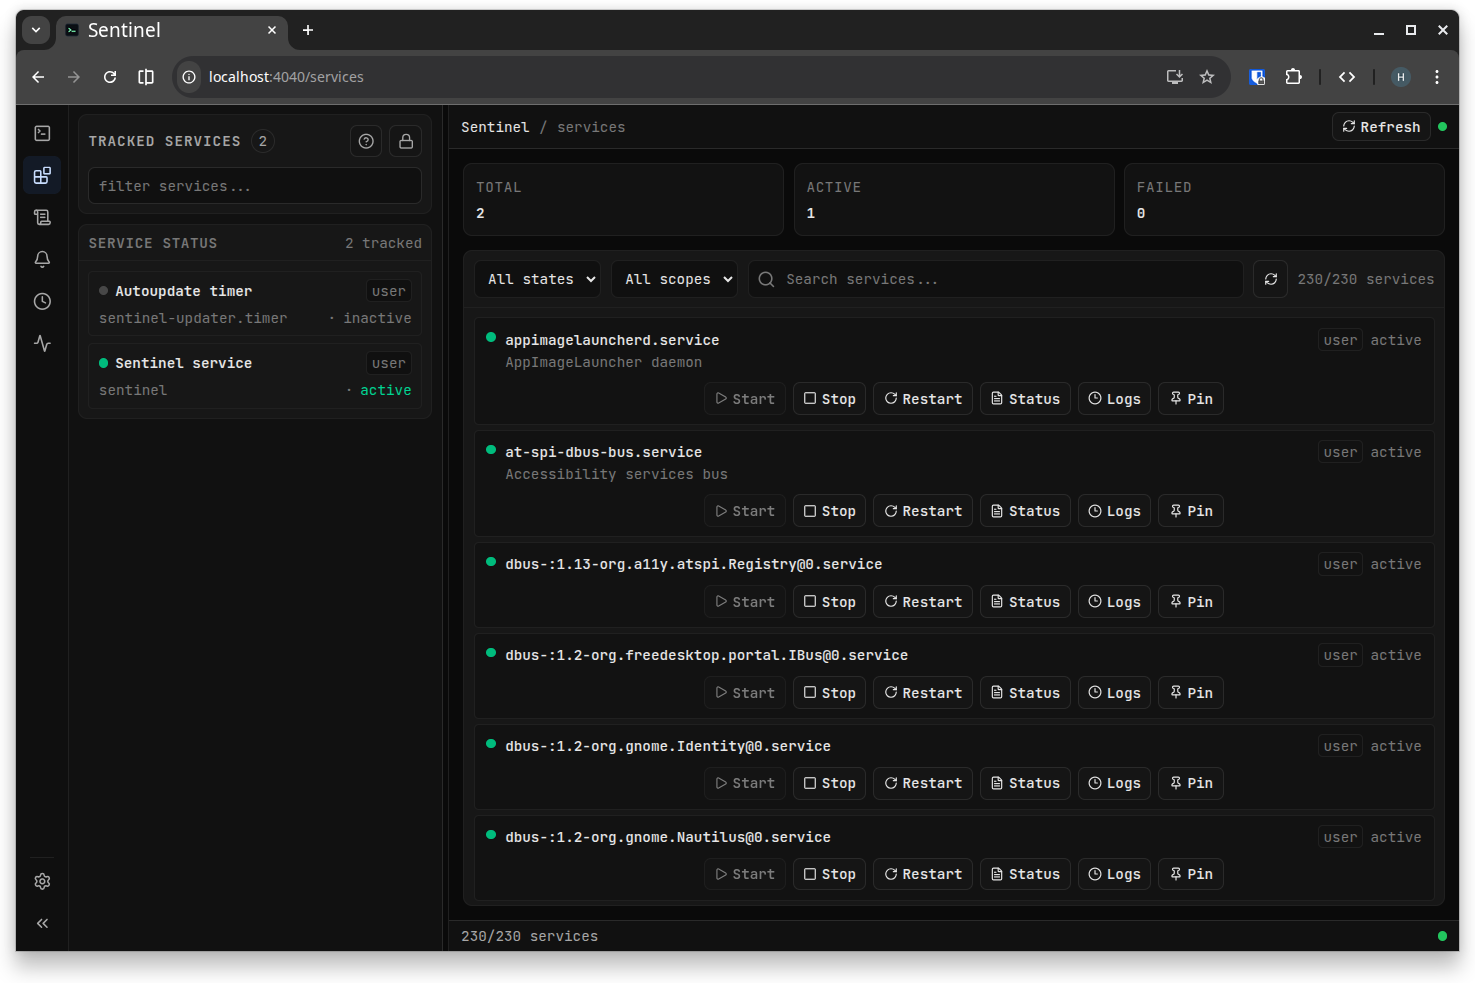
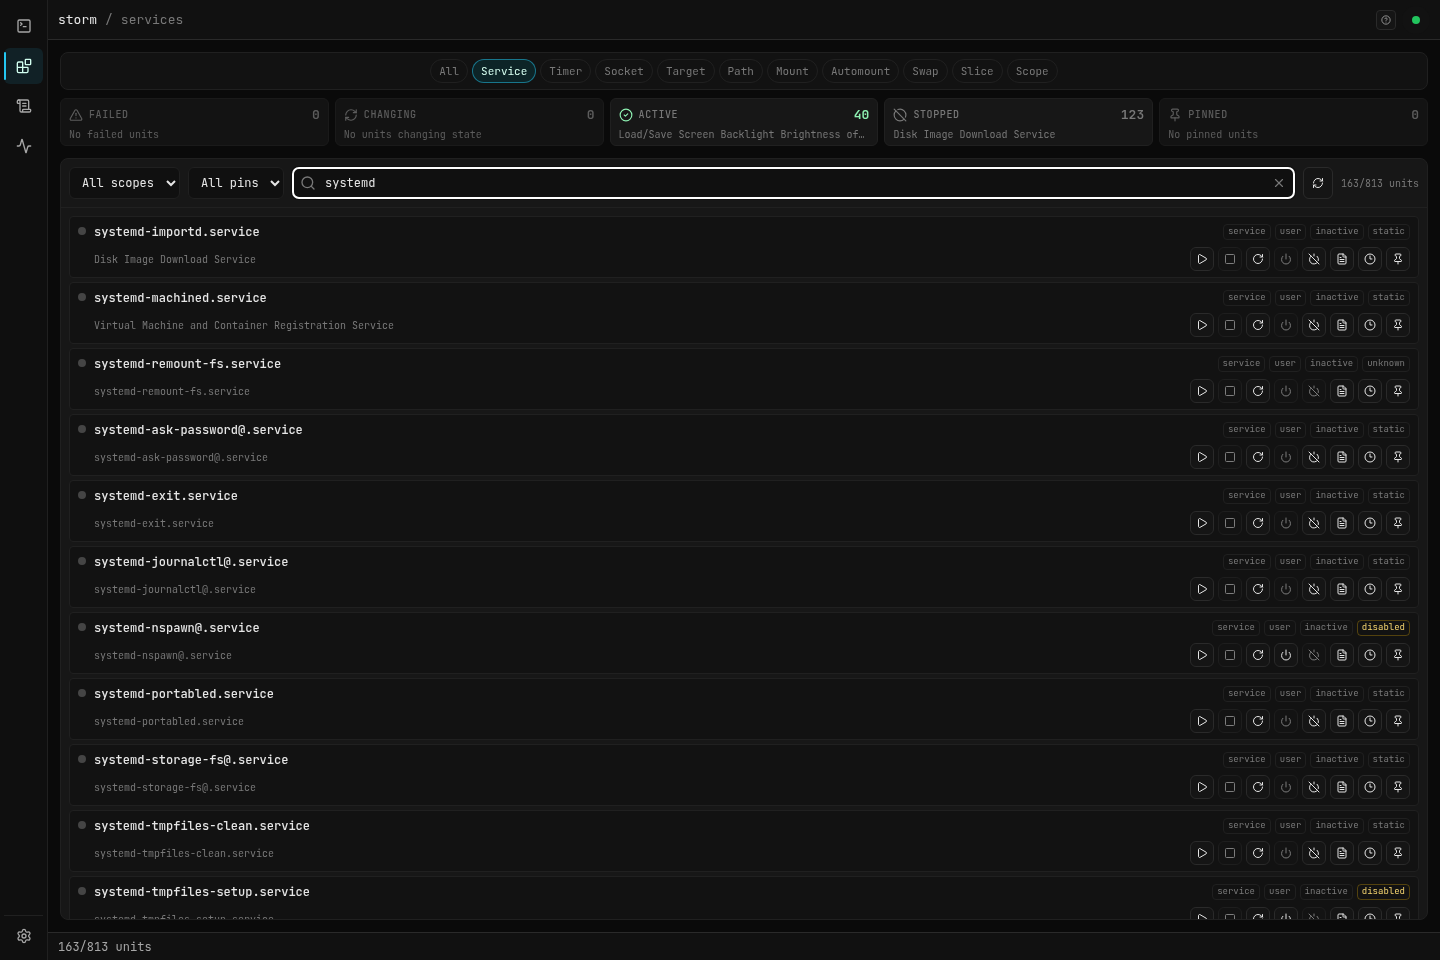
refactor(ui): remove redundant services sidebar

diff --git a/frontend/src/routes/services.tsx b/frontend/src/routes/services.tsx
@@ -10,7 +10,7 @@ import {
 } from 'react'
 import { useQuery, useQueryClient } from '@tanstack/react-query'
 import { createFileRoute } from '@tanstack/react-router'
-import { Menu, RefreshCw, Search, X } from 'lucide-react'
+import { RefreshCw, Search, X } from 'lucide-react'
 import type {
   OpsBrowseServicesResponse,
   OpsBrowsedService,
@@ -26,16 +26,15 @@ import type {
 import AppSectionTitle from '@/components/layout/AppSectionTitle'
 import AppShell from '@/components/layout/AppShell'
 import ConnectionBadge from '@/components/ConnectionBadge'
+import ServicesHelpDialog from '@/components/ServicesHelpDialog'
 import { ServiceBrowseRow } from '@/components/services/ServiceBrowseRow'
 import { ServiceLogsSheet } from '@/components/services/ServiceLogsSheet'
 import { ServicesOperationsSummary } from '@/components/services/ServicesOperationsSummary'
 import { ServiceStatusDialog } from '@/components/services/ServiceStatusDialog'
-import ServicesSidebar from '@/components/ServicesSidebar'
 import { Button } from '@/components/ui/button'
 import { EmptyState } from '@/components/ui/empty-state'
 import { ScrollArea } from '@/components/ui/scroll-area'
 import { TooltipHelper } from '@/components/TooltipHelper'
-import { useLayoutContext } from '@/contexts/LayoutContext'
 import { useMetaContext } from '@/contexts/MetaContext'
 import { useToastContext } from '@/contexts/ToastContext'
 import { useTokenContext } from '@/contexts/TokenContext'
@@ -292,9 +291,8 @@ ServicesBrowseControls.displayName = 'ServicesBrowseControls'
 
 function ServicesPage() {
   const { tokenRequired, hostname } = useMetaContext()
-  const { authenticated, setToken } = useTokenContext()
+  const { authenticated } = useTokenContext()
   const { pushToast } = useToastContext()
-  const layout = useLayoutContext()
   const api = useTmuxApi()
   const queryClient = useQueryClient()
 
@@ -356,11 +354,6 @@ function ServicesPage() {
     effectiveSvcTypeFilter.length === browseUnitTypes.length &&
     browseUnitTypes.every((type) => effectiveSvcTypeFilter.includes(type))
 
-  const servicesLoading = servicesQuery.isLoading
-  const servicesError =
-    servicesQuery.error != null
-      ? toErrorMessage(servicesQuery.error, 'failed to load services')
-      : ''
   const overviewError =
     overviewQuery.error != null
       ? toErrorMessage(overviewQuery.error, 'failed to load overview')
@@ -694,27 +687,6 @@ function ServicesPage() {
     [toggleTrack],
   )
 
-  const navigateToService = useCallback(
-    (unit: string) => {
-      setSvcStateFilter('all')
-      setSvcScopeFilter('all')
-      const matchingTypes = listOpsBrowseUnitTypes(
-        browseServices.filter((service) => service.unit === unit),
-      )
-      if (matchingTypes.length > 0) {
-        setSvcTypeFilterTouched(true)
-        setSvcTypeFilter(matchingTypes)
-      } else {
-        setSvcTypeFilter([])
-        setSvcTypeFilterTouched(false)
-      }
-      setSvcTrackFilter('all')
-      setSvcSearch(unit)
-      layout.setSidebarOpen(false)
-    },
-    [browseServices, layout],
-  )
-
   const toggleStateFilter = useCallback((filter: OpsServiceStateFilter) => {
     setSvcStateFilter((prev) => (prev === filter ? 'all' : filter))
   }, [])
@@ -753,37 +725,14 @@ function ServicesPage() {
   }, [])
 
   return (
-    <AppShell
-      sidebar={
-        <ServicesSidebar
-          isOpen={layout.sidebarOpen}
-          collapsed={layout.sidebarCollapsed}
-          tokenRequired={tokenRequired}
-          authenticated={authenticated}
-          loading={servicesLoading}
-          error={servicesError}
-          services={services}
-          onTokenChange={setToken}
-          onRemoveService={unregisterService}
-          onNavigateToService={navigateToService}
-        />
-      }
-    >
+    <AppShell>
       <main className="grid h-full min-h-0 min-w-0 grid-cols-1 grid-rows-[40px_1fr_28px] bg-[radial-gradient(circle_at_20%_-10%,var(--section-glow-brand),transparent_34%),var(--background)]">
         <header className="flex min-w-0 items-center justify-between gap-2 border-b border-border bg-card px-2.5">
           <div className="flex min-w-0 items-center gap-2">
-            <Button
-              variant="ghost"
-              size="icon"
-              className="cursor-pointer md:hidden"
-              onClick={() => layout.setSidebarOpen((prev) => !prev)}
-              aria-label="Open menu"
-            >
-              <Menu className="h-5 w-5" />
-            </Button>
             <AppSectionTitle hostname={hostname} section="services" />
           </div>
           <div className="flex items-center gap-1.5">
+            <ServicesHelpDialog />
             <ConnectionBadge state={connectionState} onClick={resyncPage} />
           </div>
         </header>

diff --git a/frontend/src/components/ServicesHelpDialog.tsx b/frontend/src/components/ServicesHelpDialog.tsx
@@ -36,8 +36,8 @@ export default function ServicesHelpDialog() {
             <section>
               <h3 className="mb-1 font-medium text-foreground">Tracked Services</h3>
               <p>
-                Services pinned from the Browse panel appear in the sidebar for quick status
-                monitoring. Their active state is polled automatically.
+                Services pinned from the Browse panel can be isolated with the Pinned filter. Their
+                active state is polled automatically.
               </p>
             </section>
             <section>
@@ -46,7 +46,7 @@ export default function ServicesHelpDialog() {
                 The Browse panel discovers systemd (Linux) or launchd (macOS) units available on the
                 host. The default view stays focused on service units, and the type filter lets you
                 expand into timers, targets, sockets, and other unit kinds when needed. Pin any unit
-                to track it in the sidebar.
+                to add it to the tracked set.
               </p>
             </section>
             <section>
@@ -70,7 +70,7 @@ export default function ServicesHelpDialog() {
               <p>
                 The <strong className="text-foreground">sentinel</strong> and{' '}
                 <strong className="text-foreground">sentinel-updater</strong> services are built-in
-                and always tracked. They cannot be removed from the sidebar.
+                and always tracked.
               </p>
             </section>
           </div>

diff --git a/frontend/src/components/services/ServiceBrowseRow.test.tsx b/frontend/src/components/services/ServiceBrowseRow.test.tsx
@@ -56,6 +56,7 @@ describe('ServiceBrowseRow', () => {
     const onAction = vi.fn()
     const onInspect = vi.fn()
     const onLogs = vi.fn()
+    const onToggleTrack = vi.fn()
 
     renderRow({
       service: service({
@@ -65,6 +66,7 @@ describe('ServiceBrowseRow', () => {
       onAction,
       onInspect,
       onLogs,
+      onToggleTrack,
     })
 
     const desktop = within(screen.getByTestId('service-actions-desktop'))
@@ -72,11 +74,13 @@ describe('ServiceBrowseRow', () => {
     fireEvent.click(desktop.getByRole('button', { name: 'Enable' }))
     fireEvent.click(desktop.getByRole('button', { name: 'Inspect status' }))
     fireEvent.click(desktop.getByRole('button', { name: 'View logs' }))
+    fireEvent.click(desktop.getByRole('button', { name: 'Pin service' }))
 
     expect(onAction).toHaveBeenCalledWith(expect.any(Object), 'start')
     expect(onAction).toHaveBeenCalledWith(expect.any(Object), 'enable')
     expect(onInspect).toHaveBeenCalledOnce()
     expect(onLogs).toHaveBeenCalledOnce()
+    expect(onToggleTrack).toHaveBeenCalledOnce()
   })
 
   it('collapses actions into a primary action plus overflow on mobile', () => {

diff --git a/frontend/src/components/services/ServiceBrowseRow.tsx b/frontend/src/components/services/ServiceBrowseRow.tsx
@@ -156,7 +156,7 @@ export const ServiceBrowseRow = memo(function ServiceBrowseRow({
     },
     {
       key: 'track',
-      label: svc.tracked ? 'Unpin from sidebar' : 'Pin to sidebar',
+      label: svc.tracked ? 'Unpin service' : 'Pin service',
       icon: svc.tracked ? PinOff : Pin,
       onClick: () => onToggleTrack(svc),
       disabled: rowBusy,

diff --git a/docs/features/services.md b/docs/features/services.md
@@ -136,12 +136,12 @@ Service state changes emit events over the `/ws/events` WebSocket:
 
 The dedicated `/services` route provides a full-page service management experience.
 
-- The sidebar (`ServicesSidebar`) lists pinned/tracked services with live status indicators. A `?` help dialog button and token/lock controls are available at the top of the sidebar.
+- Services uses the full application width without a secondary sidebar. Pinned/tracked units remain available through the `Pinned` browse filter, with live status indicators in the service list.
 - The main panel has a stats header showing total, active, and failed service counts, followed by a browse panel.
 - The browse panel discovers all host services and supports filtering by state (active/inactive/failed), scope (user/system), and free-text search.
 - Per-service actions include start, stop, restart, status inspect, and logs view. Services can be pinned or unpinned directly from the browse list.
 - Service status and logs open in modal dialogs.
-- Real-time updates arrive via WebSocket events (`ops.services.updated`, `ops.overview.updated`), keeping the sidebar and browse panel in sync without polling.
+- Real-time updates arrive via WebSocket events (`ops.services.updated`, `ops.overview.updated`), keeping the browse panel in sync without polling.
 
 ## API Endpoints
 